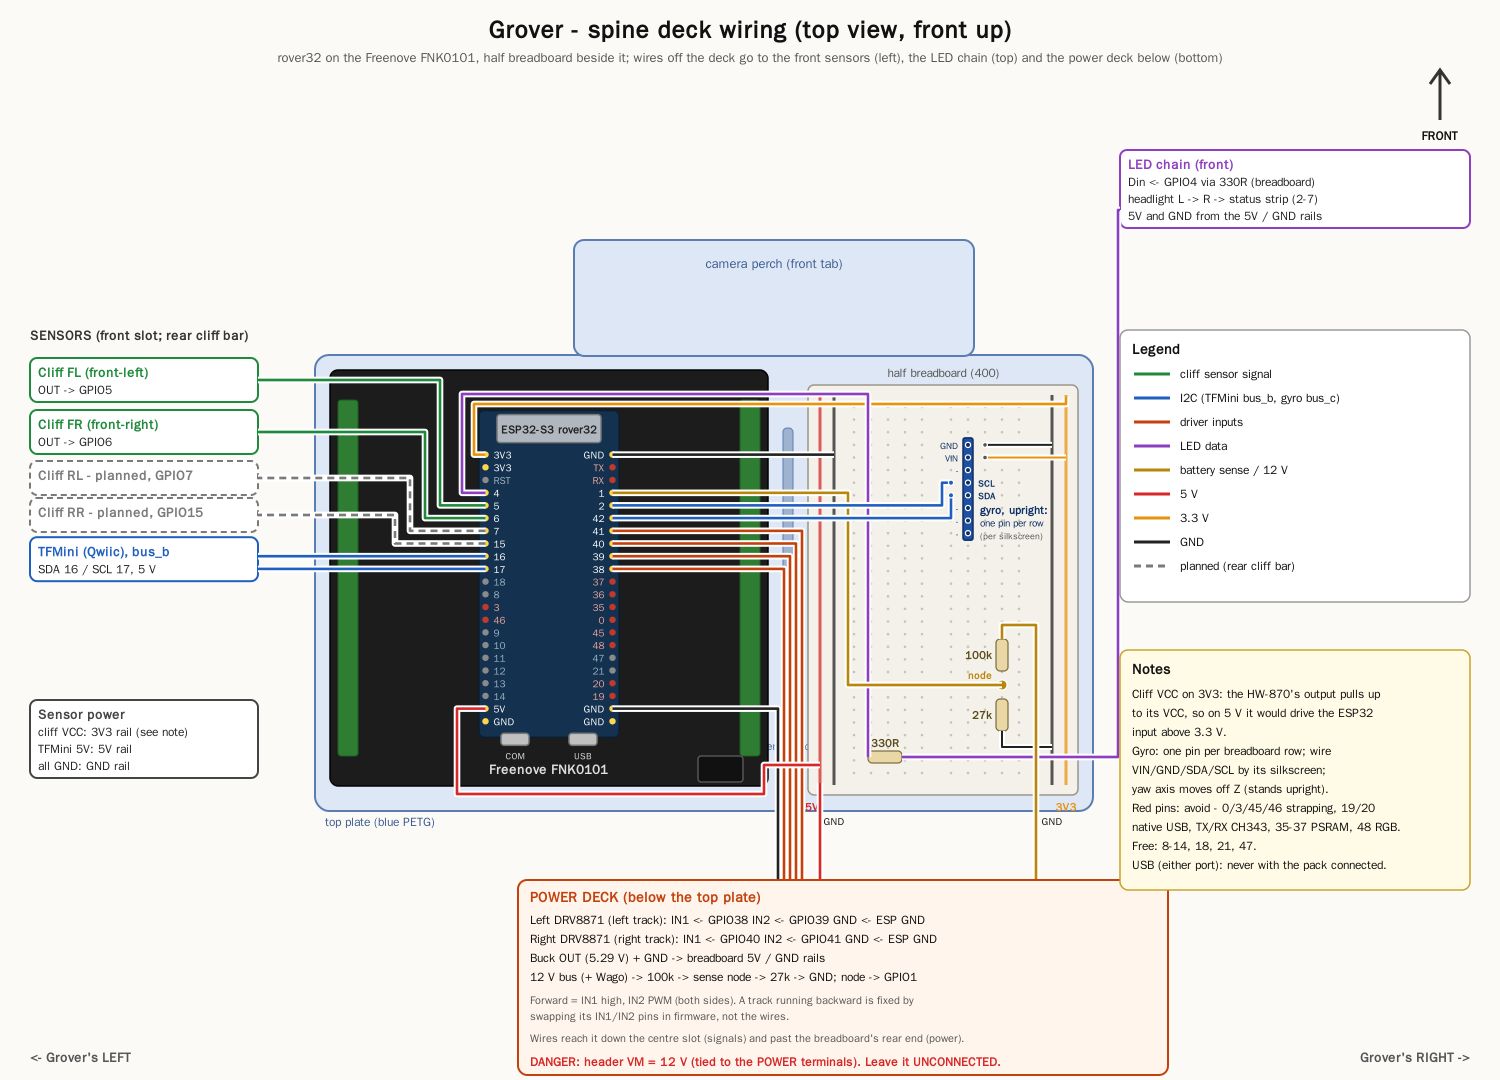
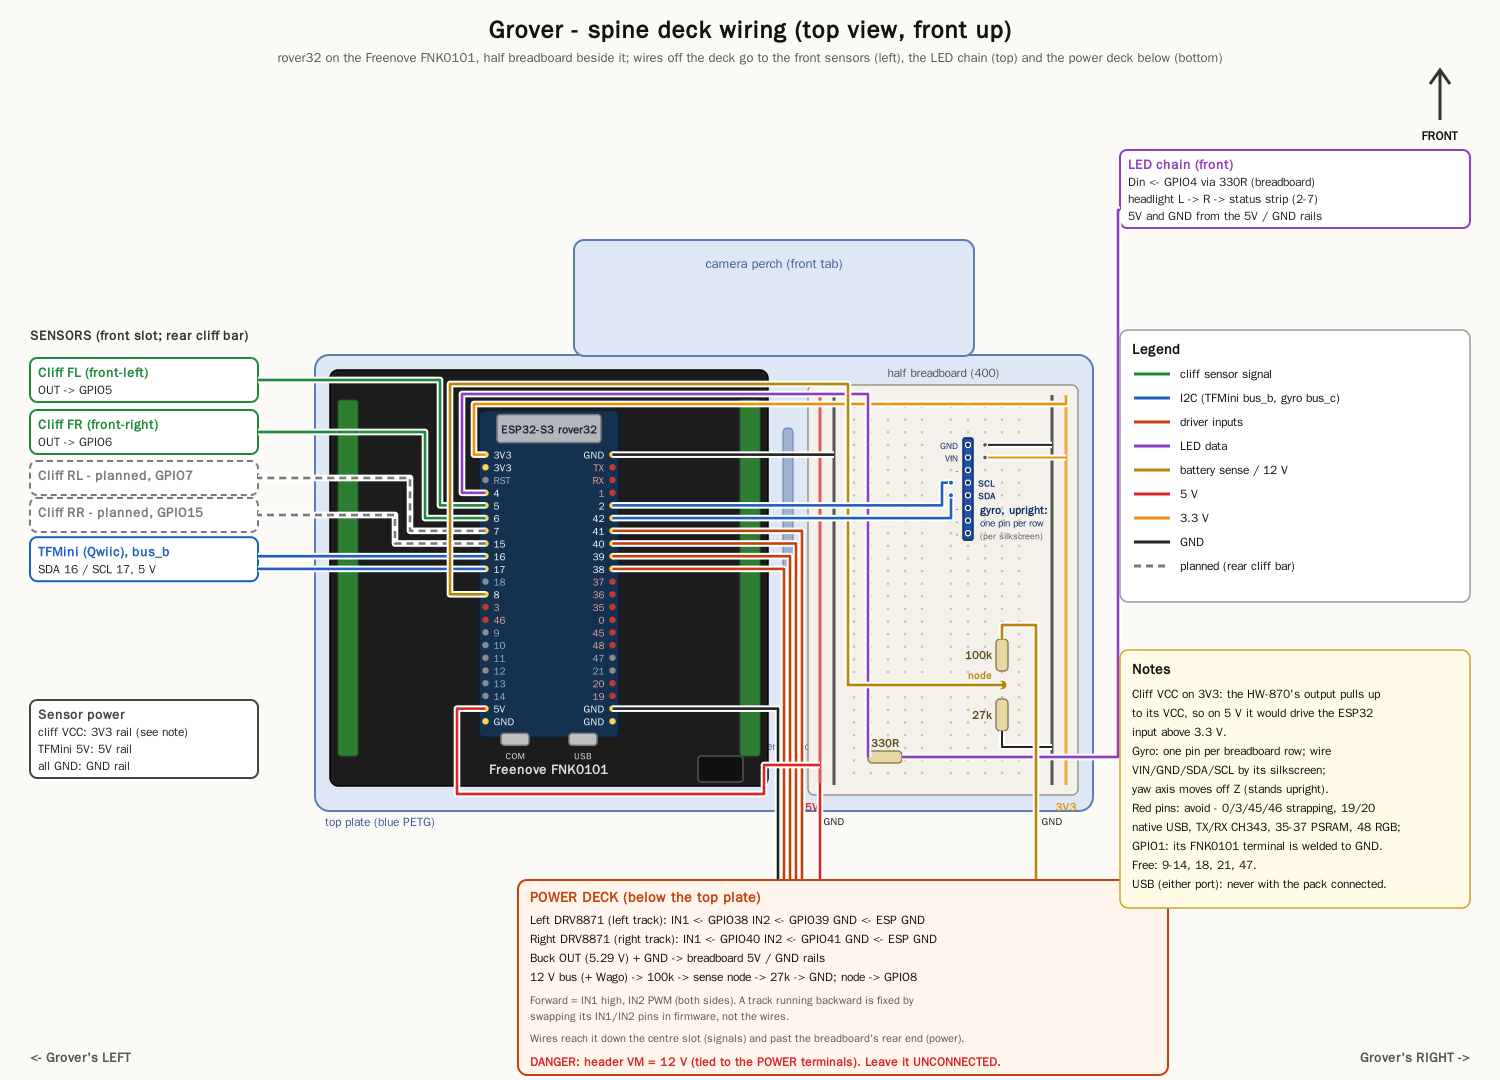
battery sense on GPIO8 (GPIO1 terminal welded to GND); one-track test passed; boot twitch noted

Changed region(s): [[0.276, 0.3361, 0.5827, 0.55], [0.736, 0.7639, 0.92, 0.825], [0.3987, 0.4278, 0.5827, 0.4583]]

diff --git a/hardware/carrier/spine_deck_wiring.py b/hardware/carrier/spine_deck_wiring.py
@@ -89,10 +89,10 @@ left_pins = ["3V3", "3V3", "RST", "4", "5", "6", "7", "15", "16", "17", "18", "8
              "9", "10", "11", "12", "13", "14", "5V", "GND"]
 right_pins = ["GND", "TX", "RX", "1", "2", "42", "41", "40", "39", "38", "37", "36", "35",
               "0", "45", "48", "47", "21", "20", "19", "GND", "GND"]
-avoid = {"3", "46", "0", "45", "48", "TX", "RX", "20", "19", "35", "36", "37"}
+avoid = {"1", "3", "46", "0", "45", "48", "TX", "RX", "20", "19", "35", "36", "37"}
 lx, rx_ = dcx - 12.7 * S, dcx + 12.7 * S
 P = {}
-used = {"3V3", "4", "5", "6", "7", "15", "16", "17", "5V", "1", "2", "42", "41", "40", "39", "38"}
+used = {"3V3", "4", "5", "6", "7", "15", "16", "17", "8", "5V", "2", "42", "41", "40", "39", "38"}
 def pin(x, y, n, side, i):
     on = n in used or n == "GND"
     fill = "#ffd54f" if on else "#c0392b" if n in avoid else "#8a8a8a"
@@ -186,8 +186,9 @@ line([P["L3V3"], (474, P["L3V3"][1]), (474, 404), (rail["3V3"], 404), (rail["3V3
 line([P["L4"], (462, P["L4"][1]), (462, 394), (bx0 + 60, 394), (bx0 + 60, lry)], C["led"])
 # right header: GND to the gap-side GND rail
 line([P["RGND"], (rail["GNDa"], P["RGND"][1])], C["gnd"])
-# battery sense GPIO1 -> divider node, right of the gyro
-line([P["R1"], (bx0 + 40, P["R1"][1]), (bx0 + 40, dvy), (rx1, dvy)], C["bat"])
+# battery sense GPIO8 (left header) -> over the top -> divider node.
+# GPIO1's FNK0101 terminal is welded to GND (10-31 short): never use it.
+line([P["L8"], (450, P["L8"][1]), (450, 384), (bx0 + 40, 384), (bx0 + 40, dvy), (rx1, dvy)], C["bat"])
 # gyro I2C (bus_c): GPIO2 / GPIO42, straight across to the gyro rows
 line([P["R2"], (cx(5) - 9, P["R2"][1]), (cx(5) - 9, ry(6)), (cx(5), ry(6))], C["i2c"])
 line([P["R42"], (cx(5), P["R42"][1]), (cx(5), ry(7))], C["i2c"])
@@ -222,7 +223,7 @@ text(pdx + 12, PDy + 44, "Left DRV8871 (left track):  IN1 <- GPIO38   IN2 <- GPI
 text(pdx + 12, PDy + 63, "Right DRV8871 (right track): IN1 <- GPIO40   IN2 <- GPIO41   GND <- ESP GND", 12)
 text(pdx + 12, PDy + 186, "DANGER: header VM = 12 V (tied to the POWER terminals). Leave it UNCONNECTED.", 12, weight="bold", col="#d62828")
 text(pdx + 12, PDy + 82, "Buck OUT (5.29 V) + GND -> breadboard 5V / GND rails", 12)
-text(pdx + 12, PDy + 101, "12 V bus (+ Wago) -> 100k -> sense node -> 27k -> GND;  node -> GPIO1", 12)
+text(pdx + 12, PDy + 101, "12 V bus (+ Wago) -> 100k -> sense node -> 27k -> GND;  node -> GPIO8", 12)
 text(pdx + 12, PDy + 124, "Forward = IN1 high, IN2 PWM (both sides). A track running backward is fixed by", 11, col="#555")
 text(pdx + 12, PDy + 140, "swapping its IN1/IN2 pins in firmware, not the wires.", 11, col="#555")
 text(pdx + 12, PDy + 162, "Wires reach it down the centre slot (signals) and past the breadboard's rear end (power).", 11, col="#555")
@@ -240,7 +241,7 @@ for i, (k, s) in enumerate([("sig", "cliff sensor signal"), ("i2c", "I2C (TFMini
     text(lgx + 60, y, s, 12)
 
 nx, ny = 1120, 650
-rect(nx, ny, 350, 240, "#fffbe6", "#c9a227", rx=8)
+rect(nx, ny, 350, 258, "#fffbe6", "#c9a227", rx=8)
 text(nx + 12, ny + 24, "Notes", 14, weight="bold")
 for i, s in enumerate([
         "Cliff VCC on 3V3: the HW-870's output pulls up",
@@ -250,8 +251,9 @@ for i, s in enumerate([
         "VIN/GND/SDA/SCL by its silkscreen;",
         "yaw axis moves off Z (stands upright).",
         "Red pins: avoid - 0/3/45/46 strapping, 19/20",
-        "native USB, TX/RX CH343, 35-37 PSRAM, 48 RGB.",
-        "Free: 8-14, 18, 21, 47.",
+        "native USB, TX/RX CH343, 35-37 PSRAM, 48 RGB;",
+        "GPIO1: its FNK0101 terminal is welded to GND.",
+        "Free: 9-14, 18, 21, 47.",
         "USB (either port): never with the pack connected."]):
     text(nx + 12, ny + 48 + i * 19, s, 12)
 

diff --git a/JOURNAL.md b/JOURNAL.md
@@ -20,10 +20,9 @@ breakdown of the notable decisions. Newest entry on top.
 
 **Where things stand, 2026-11-01:** rover32's devkit died (12 V from a DRV8871 header
 VM pin, entry below); replaced by an ESP32-S3 (YD-ESP32-23) on a new pin
-map; running at Enoch's desk, LEDs work. drivers and motors
-proven; left reverse to re-test with the obstacle guard off, then
-reassembly. TFMini, gyro and cliff sensors respond; battery sense and the
-gyro's axis still to sort. Otherwise mid carrier rework -
+map; running at Enoch's desk, LEDs work. drivers, motors and pin
+map proven (one-track test passed). TFMini, gyro and cliff sensors respond; to do: battery
+calibration, the gyro's axis, the boot twitch. Otherwise mid carrier rework -
 DRV8871 drivers never run on the motors, Wago power deck
 and battery tray printed, top plate v2 printing; Grover is apart and
 cannot drive until the deck is reassembled. The 10-26 notes below
@@ -333,6 +332,21 @@ DRV8871 drivers arrived; he asked for Grover's parts in blue PETG from now on.*
   divider isn't reaching GPIO1 yet. The firmware still integrates the
   gyro's Z axis, which lies horizontal now the module stands upright -
   axis to find with a hand turn.
+- **Battery sense moved to GPIO8:** GPIO1's FNK0101 terminal was welded to
+  GND by the 10-31 short (Enoch). On GPIO8 it reads 14.6 V with the
+  WROOM-32 factor - the S3 ADC over-reads; recalibrate against the meter.
+- **One-track test passed (11-01, 20:03 UTC):** with a healthy battery
+  reading (no 20 s boot window) and something under the cliff sensors,
+  L+80, L-80, R+80, R-80 for 1 s each - all four moved, the right way
+  (Enoch: "all good"). The two earlier runs moved nothing: the first was
+  sent at 0.9 s of uptime with Grover in the air (cliff guard blocks
+  forward; why the reverse steps did nothing too was not pinned down -
+  probably too early in boot), the second never fired.
+- **Boot twitch:** at power-on the left track jerks briefly - forward
+  once, backward-then-forward another time - before the firmware's
+  first act (coast). So a driver pin moves during reset/bootloader, when
+  ESPHome isn't in control yet. Next: a 10k pull-down on the left IN
+  terminal (stops it if it's a weak pull-up) or a logic-analyzer capture.
 
 - **Gyro:** Enoch had screwed it upright to the old cradle's front
   face, where the Z axis the firmware reads lies horizontal - `turn()`

diff --git a/hardware/carrier/README.md b/hardware/carrier/README.md
@@ -33,10 +33,10 @@ the old positions. S3 header J1 from the antenna end: 3V3, 3V3, RST, 4, 5, 6,
 | Cliff rear-left / rear-right | **7 / 15** | 33 / 13 | J_CLIFF_RL / RR | |
 | TFMini I2C (bus_b) | **SDA 16 / SCL 17** | 25 / 26 | J_TFMINI (5V, GND, SDA, SCL) | alone on its bus |
 | Gyro L3G4200D (bus_c) | **SDA 42 / SCL 2** | 21 / 5 | J_GYRO (3V3, GND, SDA, SCL) | |
-| Battery divider | **1** | 34 | 100k / 27k + 100 nF | ADC1_CH0; recalibrate (S3 ADC) |
+| Battery divider | **8** | 34 | 100k / 27k + 100 nF | ADC1_CH7; recalibrate (S3 ADC). GPIO1 was the first choice, but its FNK0101 terminal is welded to GND (10-31 short) - never use it |
 | Left motor DRV8871 | **IN1 38 / IN2 39** | 22 / 23 | header IN1, IN2, GND only | **header VM stays unconnected (12 V)** |
 | Right motor DRV8871 | **IN1 40 / IN2 41** | 19 / 18 | as above | |
-| Free | 8-14, 18, 21, 47 | | | |
+| Free | 9-14, 18, 21, 47 | | | |
 | Avoid | 0/3/45/46 strapping, 19/20 native USB, 43/44 CH343 UART, 26-32 flash, 35-37 octal PSRAM, 48 RGB LED | | | |
 
 The DRV8871 swap needs a firmware change: the L298N drove direction on two pins
